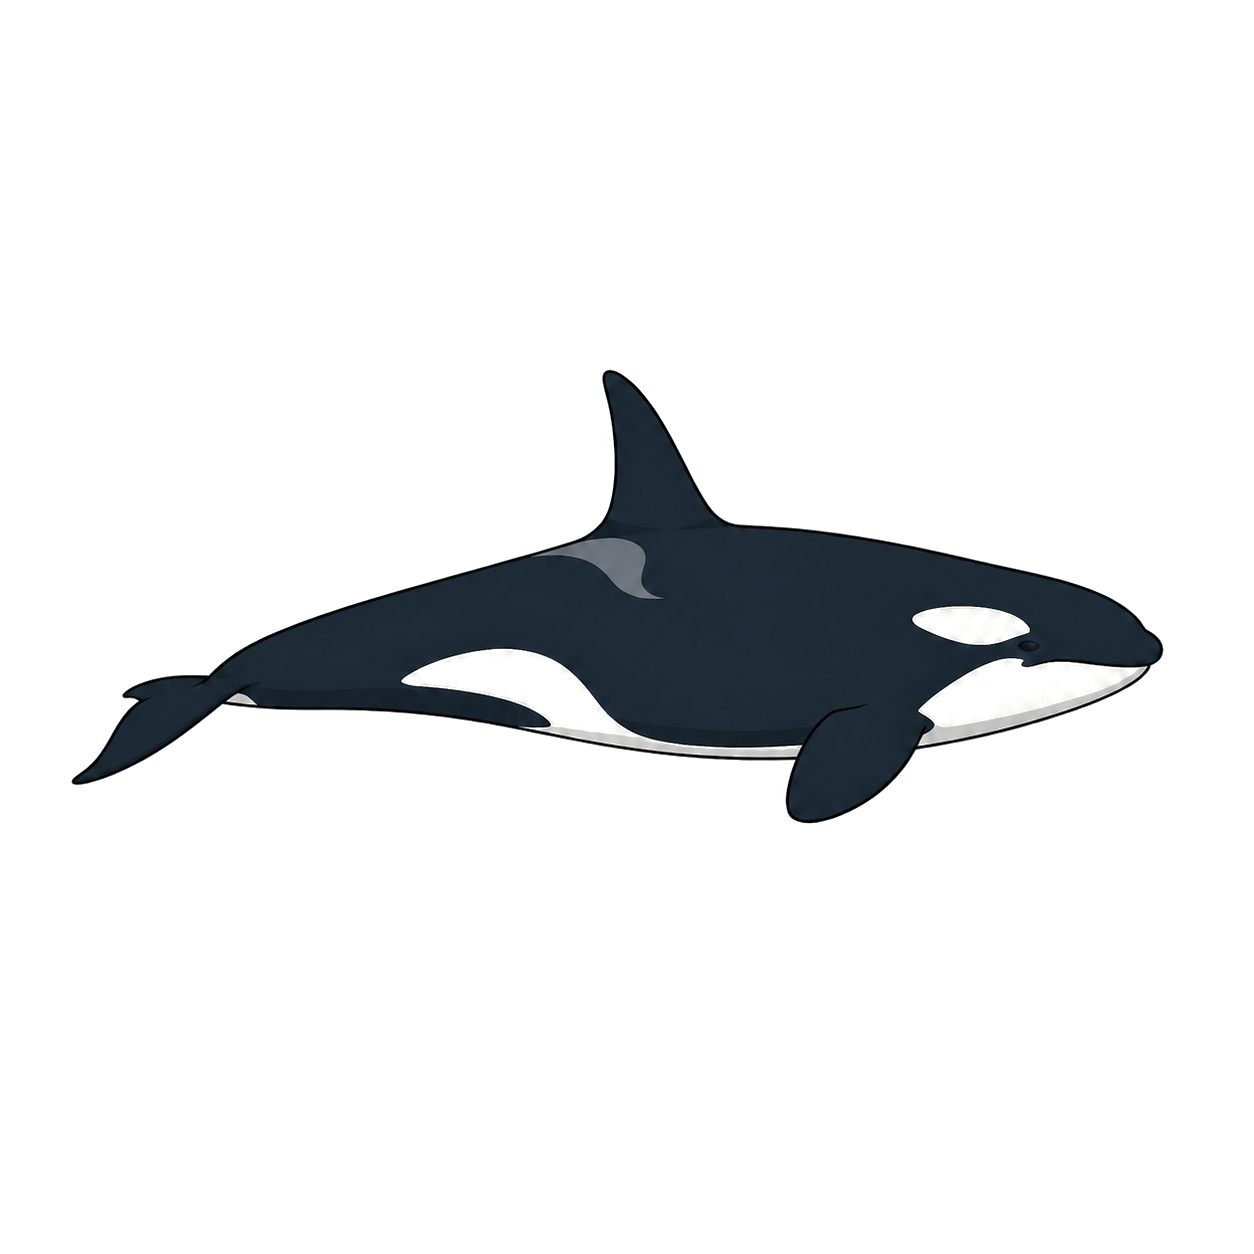
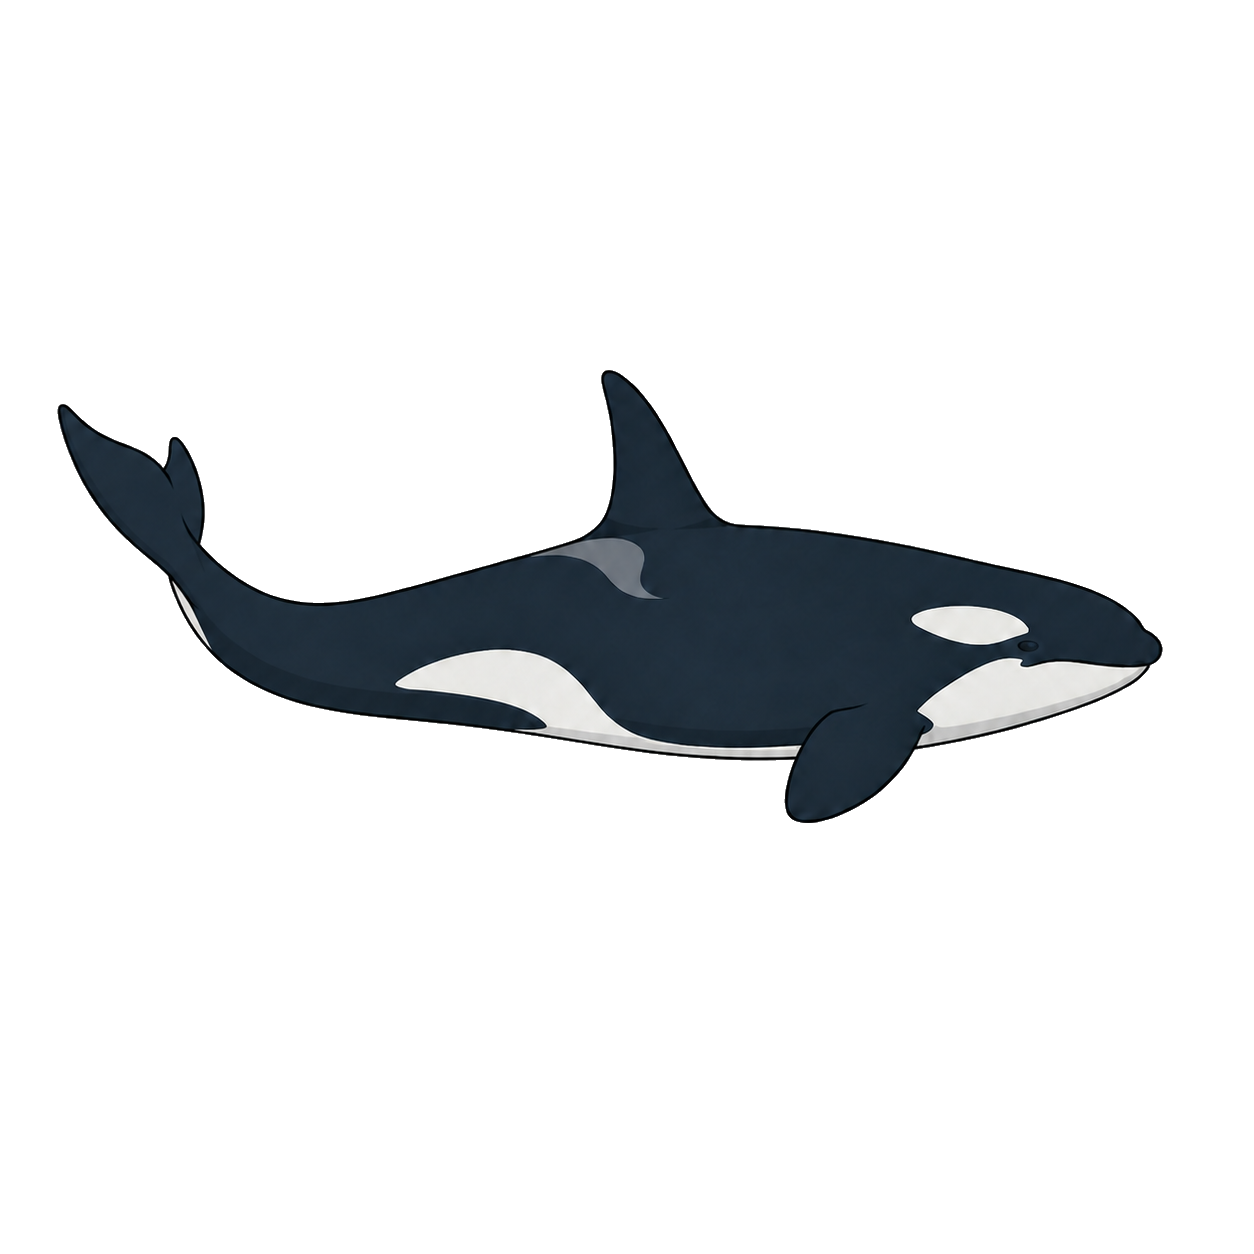
Audit assets and lift orca tail

Changed region(s): [[0.0311, 0.311, 0.4976, 0.622], [0.7153, 0.4665, 0.9019, 0.5909], [0.622, 0.5909, 0.6531, 0.622]]

diff --git a/art/README.md b/art/README.md
@@ -1,10 +1,17 @@
 # Deep Line art sources
 
-The two source sheets in this directory were generated for Deep Line with OpenAI's built-in image generation on 2026-08-27.
+The raster source art in this directory was generated for Deep Line with
+OpenAI's built-in image generation on 2026-08-27.
 
-- `freediver-sprite-sheet.png`: one consistent freediver in descent, ascent, equalization and bottom-turn poses.
-- `dive-props-sheet.png`: a surface buoy and an underwater tag plate.
-- `freediver-*-animation-sheet.png`: loopable frame strips for descent, ascent, equalization and the bottom turn.
+- `freediver-*-animation-sheet.png`: the current loopable diver strips.
+- `freediver-duck-dive-middle.png` and `freediver-turn-middle.png`: corrected
+  standalone transition frames used instead of the rejected sheet poses.
+- `dive-props-sheet.png`: the editable master for the buoy and tag plate.
+- `fish-school*.png`, `green-turtle*.png`, and `orca*.png`: paired depth-life
+  frames. The second orca frame carries the raised-tail phase of its tail beat.
+
+The obsolete all-in-one `freediver-sprite-sheet.png` was removed after the
+separate animation strips fully replaced it.
 
 The production PNGs under `resources/drawables/generated/` are cropped and downscaled from these sheets. They have separate compact MIP and larger AMOLED variants so the game does not scale large bitmaps at runtime.
 
